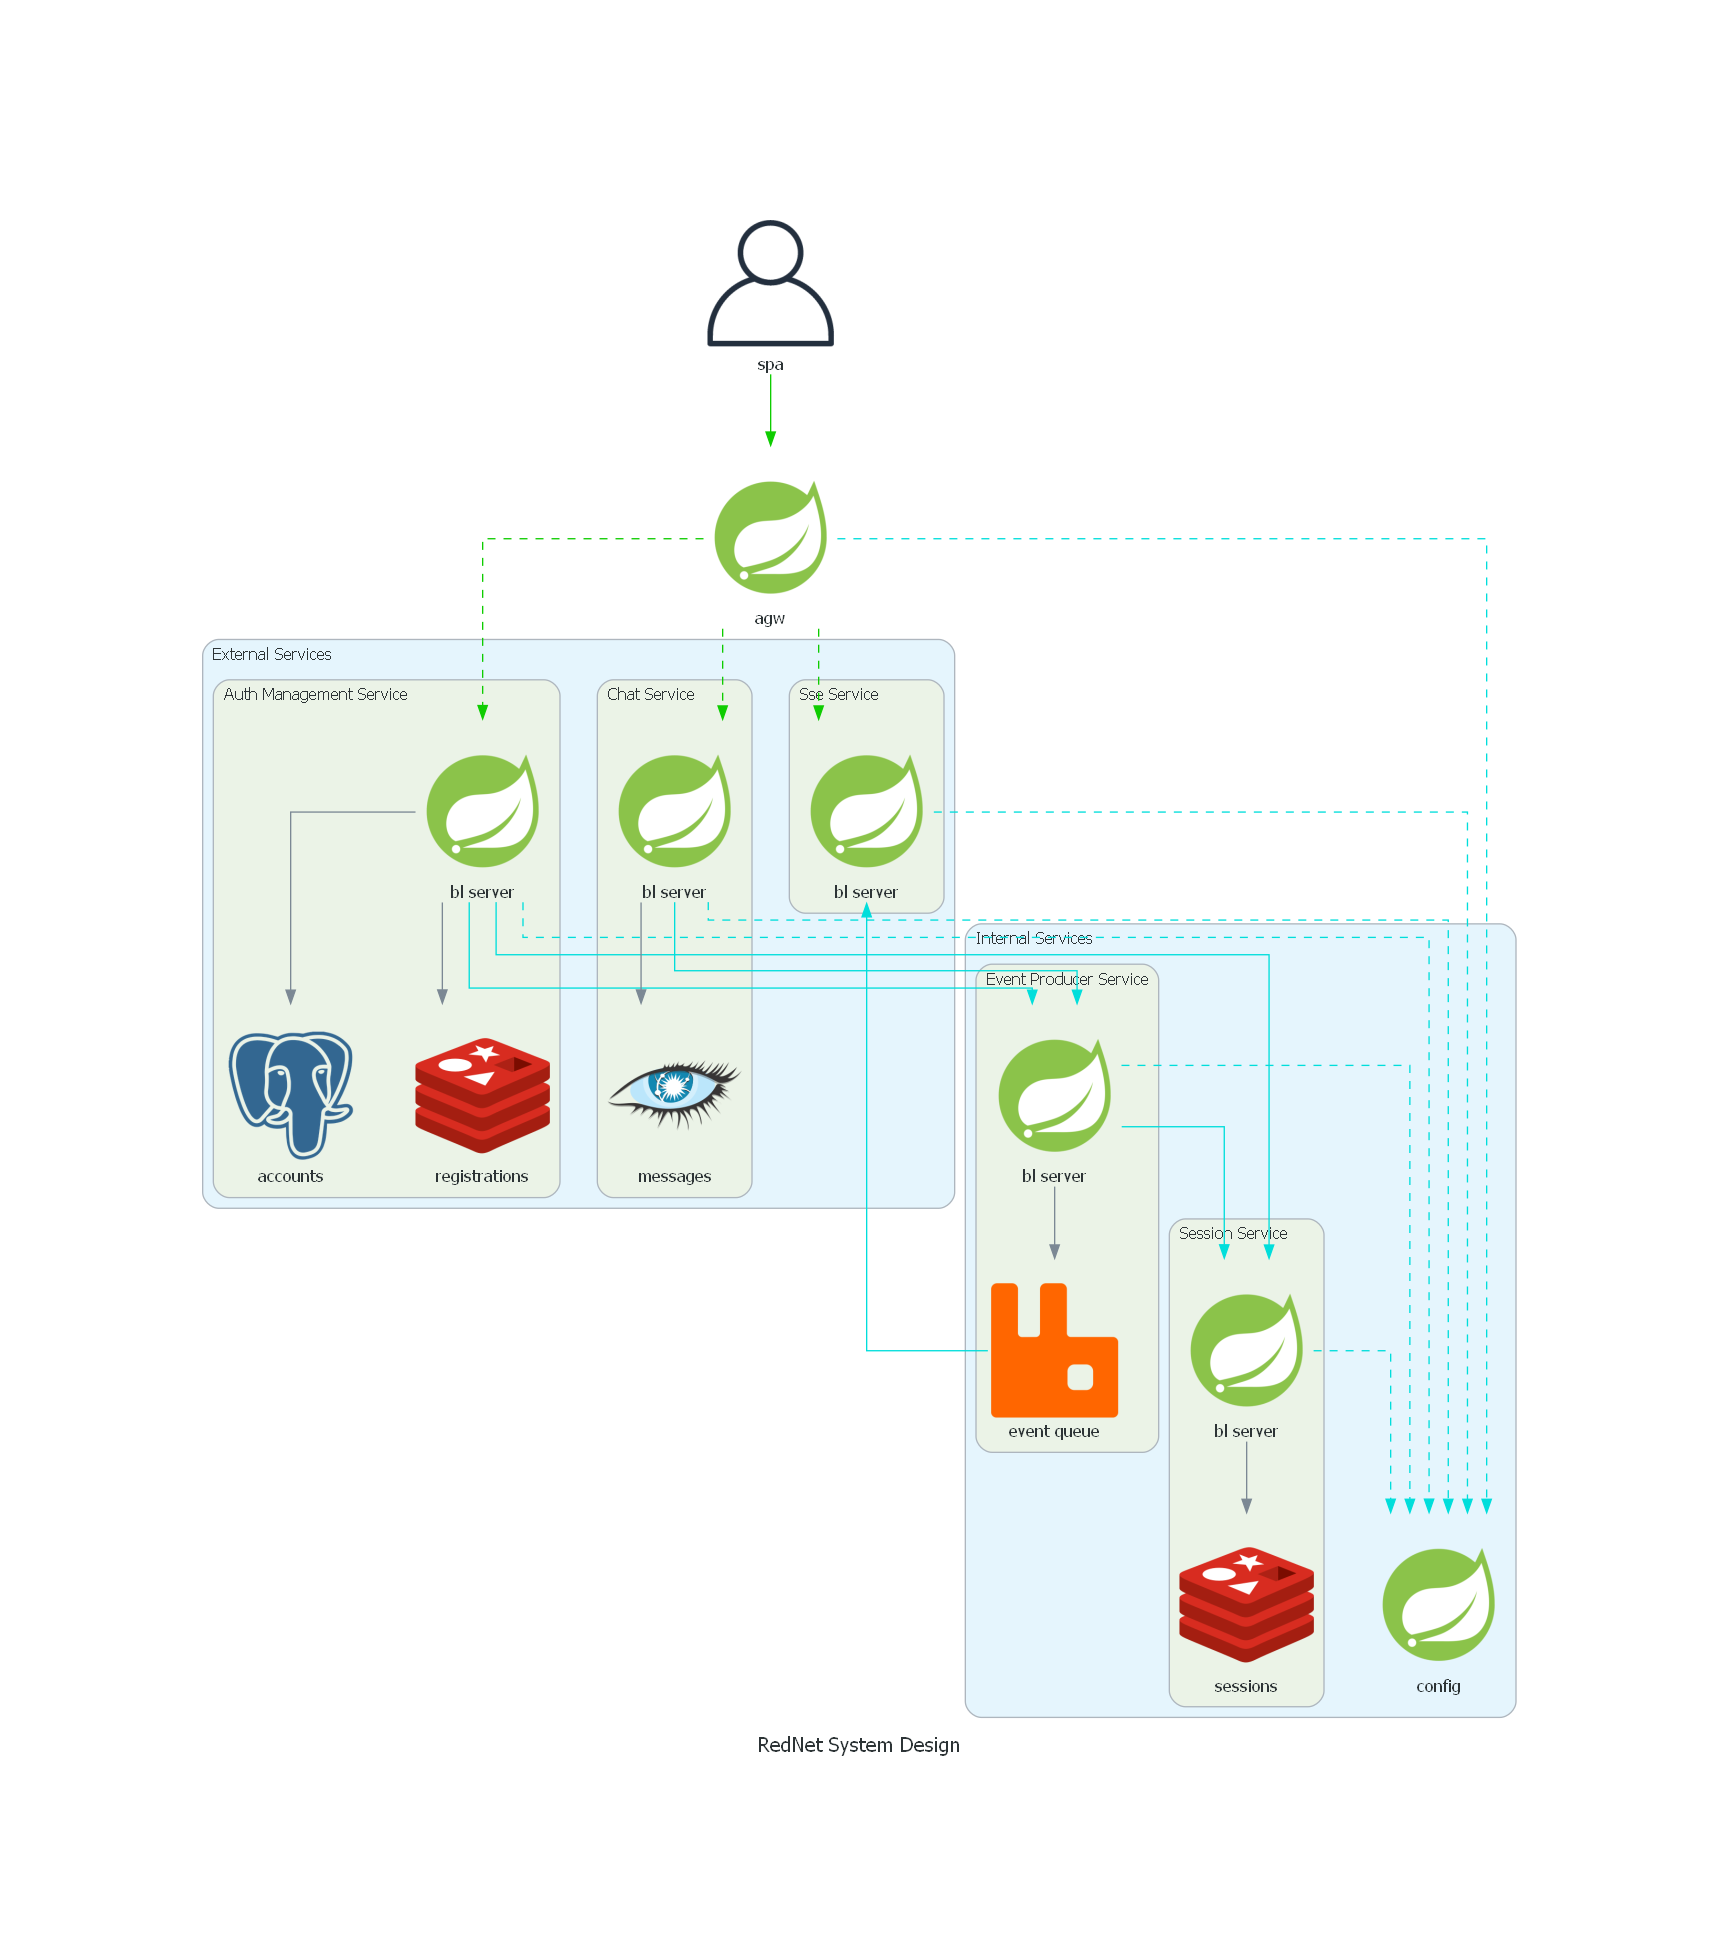
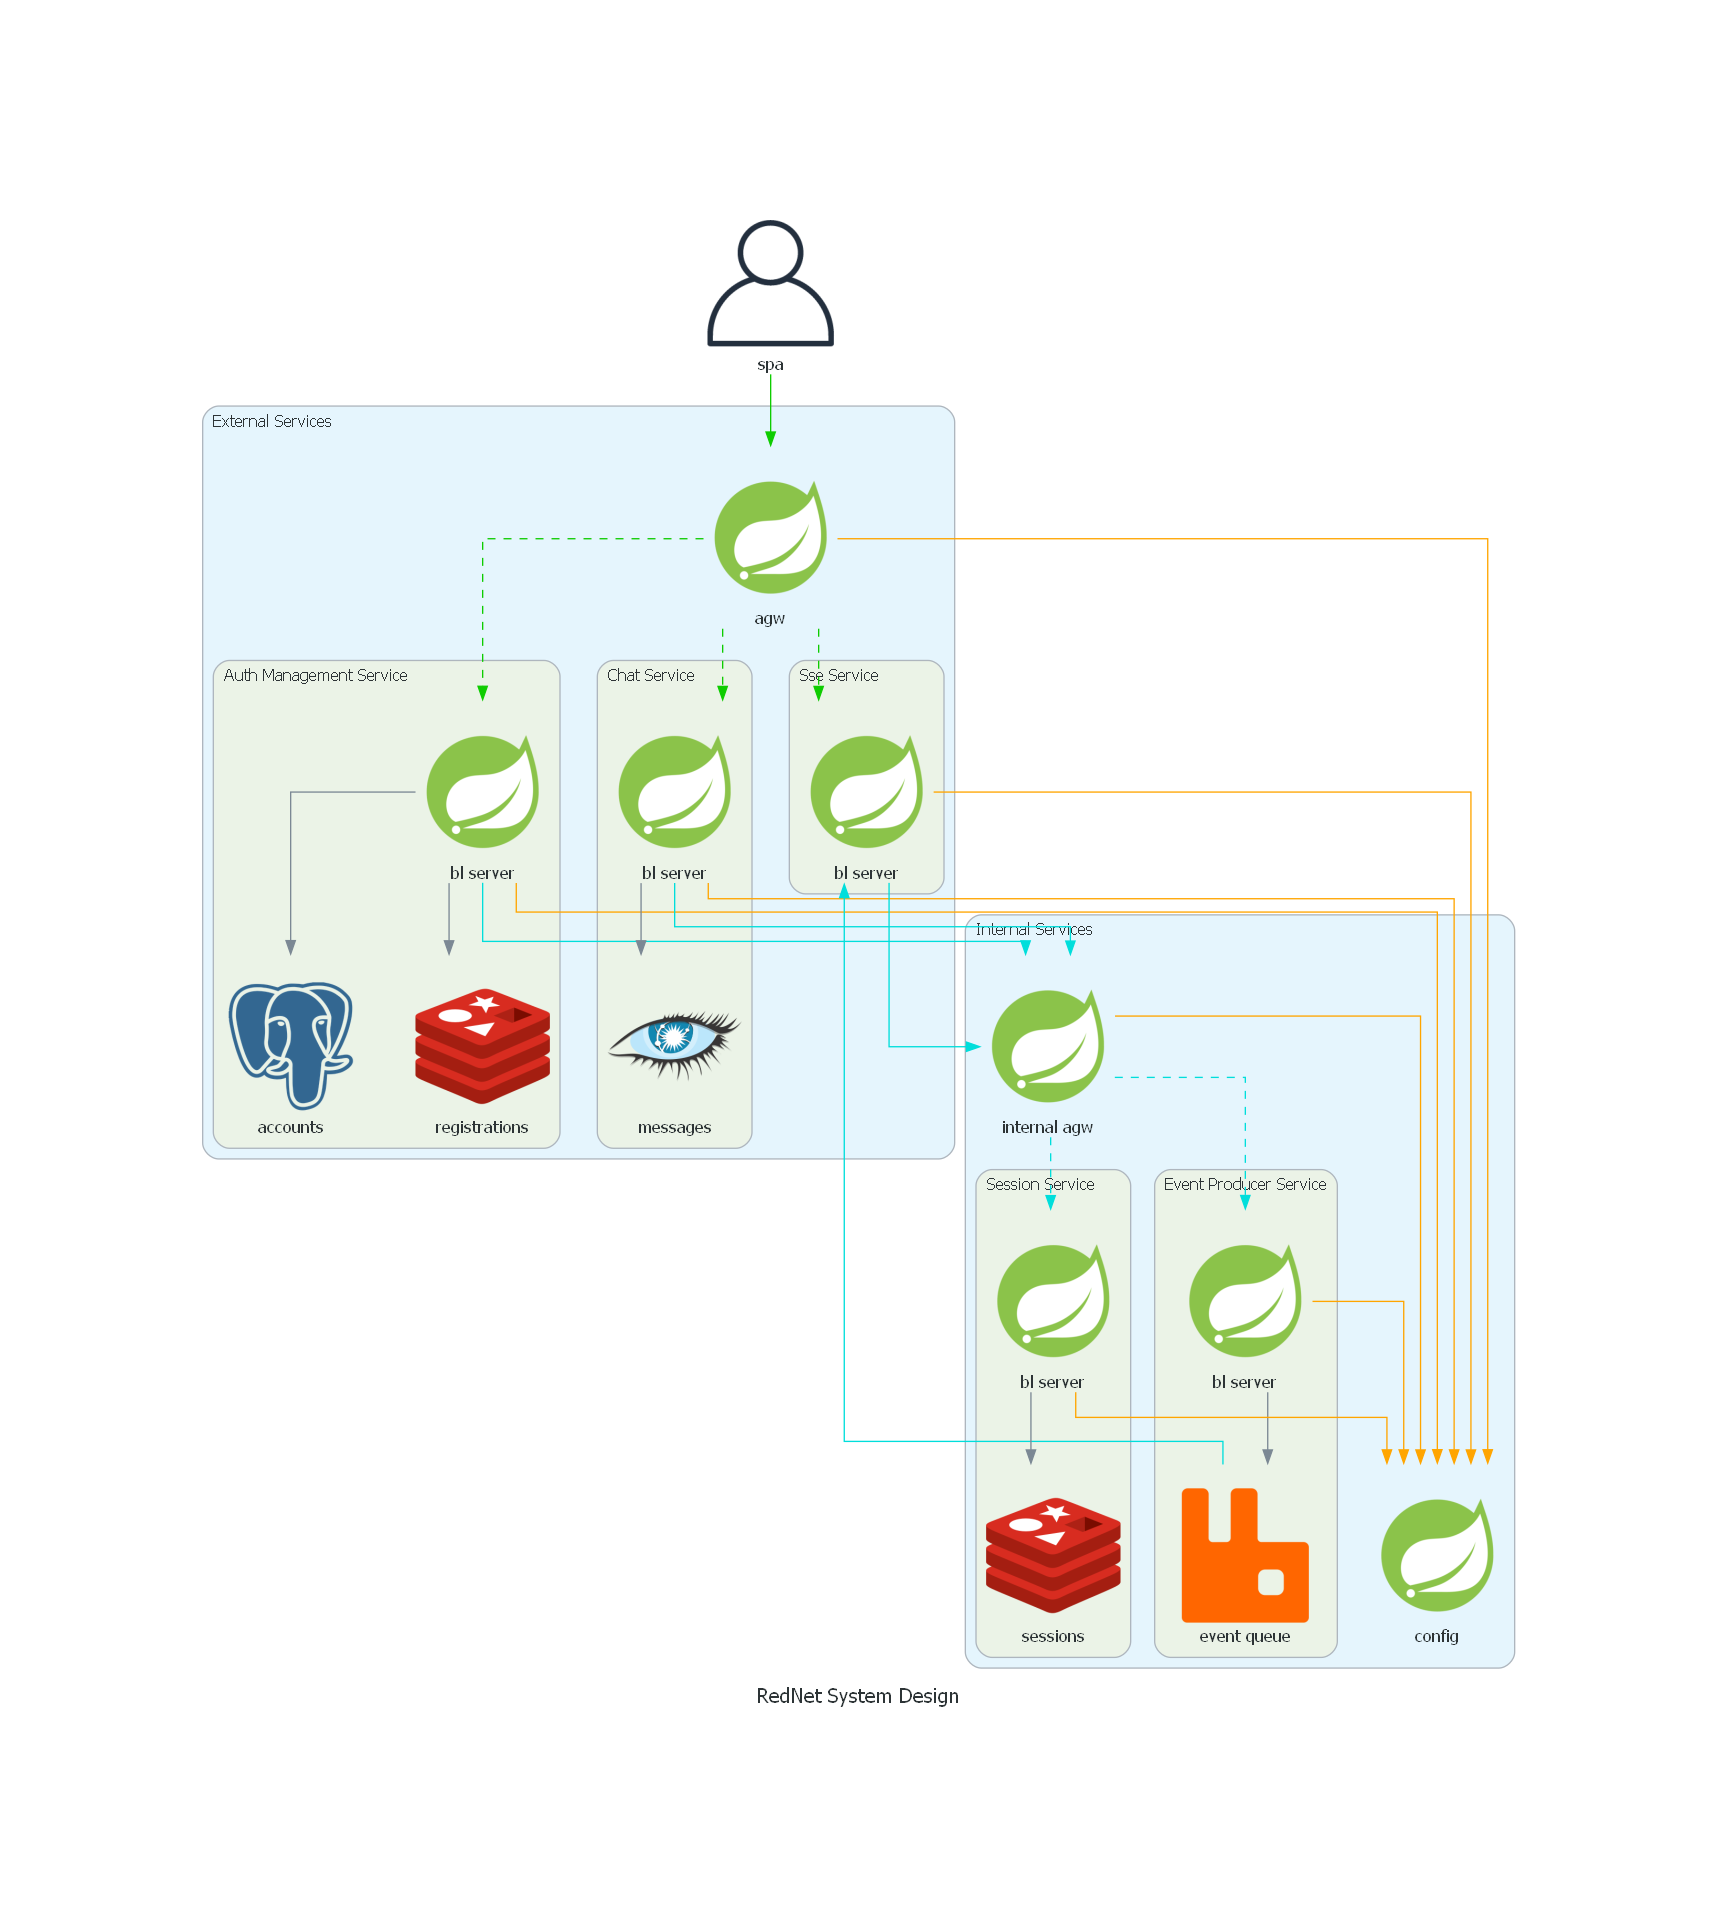
diagram change

Changed region(s): [[0.1235, 0.3717, 0.8952, 0.8982], [0.0926, 0.0929, 0.5556, 0.3717]]

diff --git a/system-design-diagram.py b/system-design-diagram.py
@@ -5,21 +5,24 @@ from diagrams.onprem.inmemory import Redis
 from diagrams.onprem.queue import RabbitMQ
 from diagrams.programming.framework import Spring
 
-with Diagram(
+with (Diagram(
     name="RedNet System Design",
     filename="system-design-diagram",
     outformat="png",
     show=True,
     direction="TB"
-):
+)):
     client_request_edge = Edge(color="#0ECC00")
     client_proxied_request_edge = Edge(color="#0ECC00", style="dashed")
     server_to_server_edge = Edge(color="#00DEDB")
+    server_to_server_proxied_edge = Edge(color="#00DEDB", style="dashed")
+    config_edge = Edge(color="orange")
 
     client = User("spa")
-    agw = Spring("agw")
 
     with Cluster("External Services"):
+        agw = Spring("agw")
+
         with Cluster("Auth Management Service"):
             auth_logic_server = Spring("bl server")
             accounts_db = Postgresql("accounts")
@@ -37,6 +40,7 @@ with Diagram(
             chat_logic_server >> messages_db
 
     with Cluster("Internal Services"):
+        internal_agw = Spring("internal agw")
         config_service = Spring("config")
 
         with Cluster("Event Producer Service"):
@@ -51,29 +55,35 @@ with Diagram(
 
             session_logic_server >> sessions_db
 
-    external_service_group = [
-        auth_logic_server,
-        sse_logic_server,
-        chat_logic_server
-    ]
+        external_service_group = [
+            auth_logic_server,
+            sse_logic_server,
+            chat_logic_server
+        ]
 
-    notifiable_service_group = [
-        auth_logic_server,
-        chat_logic_server
-    ]
+        internal_service_group = [
+            session_logic_server,
+            event_logic_server
+        ]
 
-    configurable_service_group = [
-        auth_logic_server,
-        session_logic_server,
-        sse_logic_server,
-        chat_logic_server,
-        agw,
-        event_logic_server
-    ]
+        services = internal_service_group + external_service_group
+
+        notifiable_service_group = [
+            auth_logic_server,
+            chat_logic_server
+        ]
+
+        configurable_service_group = [
+            auth_logic_server,
+            session_logic_server,
+            sse_logic_server,
+            chat_logic_server,
+            agw,
+            internal_agw,
+            event_logic_server
+        ]
 
     client >> client_request_edge >> agw >> client_proxied_request_edge >> external_service_group
-    auth_logic_server >> server_to_server_edge >> session_logic_server
-    notifiable_service_group >> server_to_server_edge >> event_logic_server
-    event_logic_server >> server_to_server_edge >> session_logic_server
+    external_service_group >> server_to_server_edge >> internal_agw >> server_to_server_proxied_edge >> internal_service_group
     event_queue >> server_to_server_edge >> sse_logic_server
-    configurable_service_group >> Edge(style="dashed", color="#00DEDB") >> config_service
+    configurable_service_group >> config_edge >> config_service
